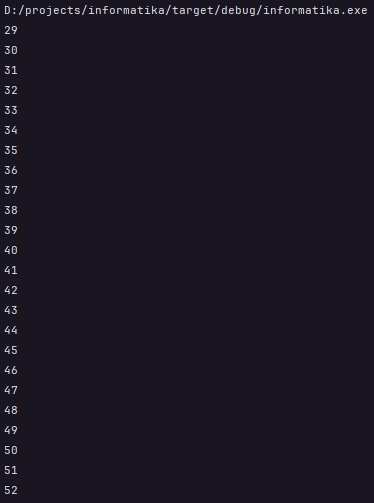
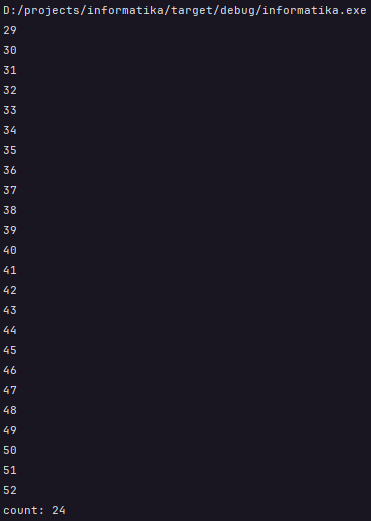
added count

Changed region(s): [[0.0, 0.0, 1.0, 1.0], [0.1482, 0.9543, 0.1779, 1.0]]

diff --git a/src/main.rs b/src/main.rs
@@ -1,7 +1,12 @@
 fn main() {
+    let mut count = 0;
+
     for x in 0..100 {
         if !(x >= 53 || x < 29) {
-            println!("{:}", x)
+            println!("{:}", x);
+            count += 1;
         }
     }
+
+    println!("count: {:}", count)
 }
